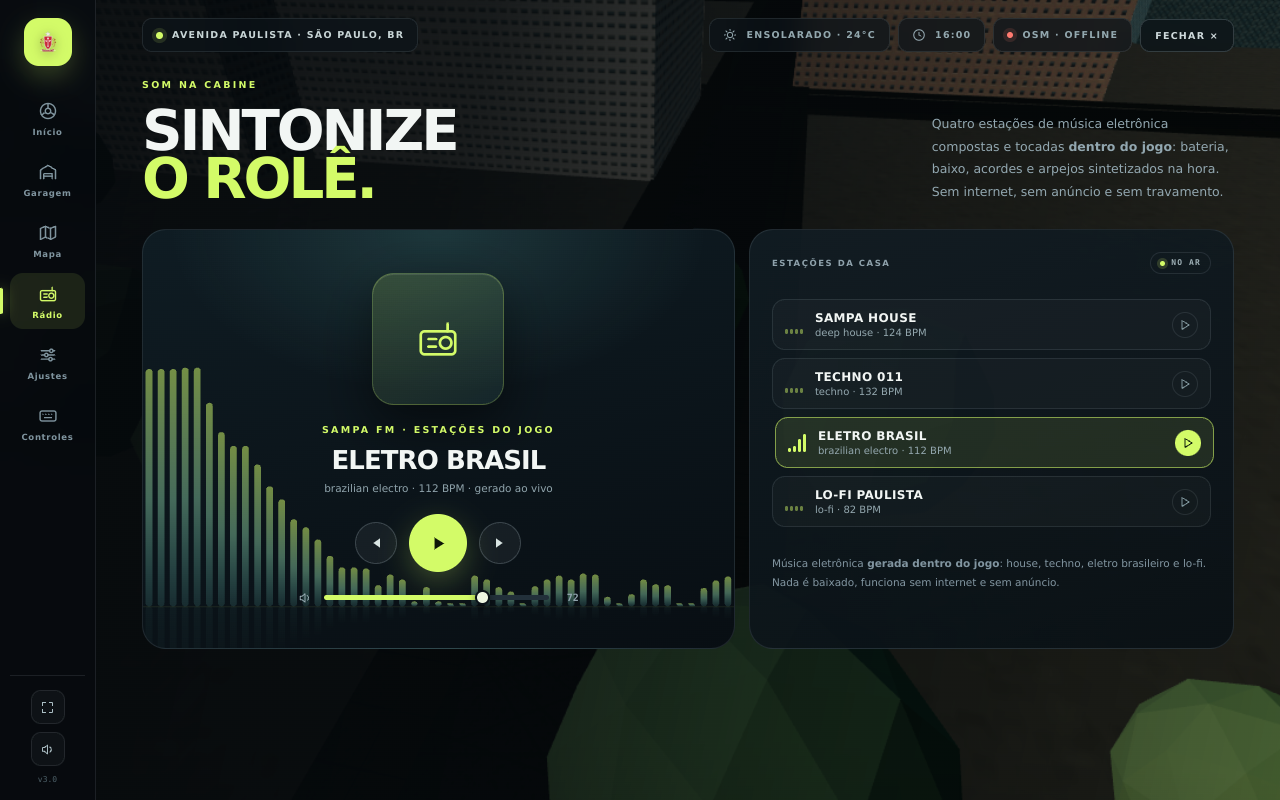
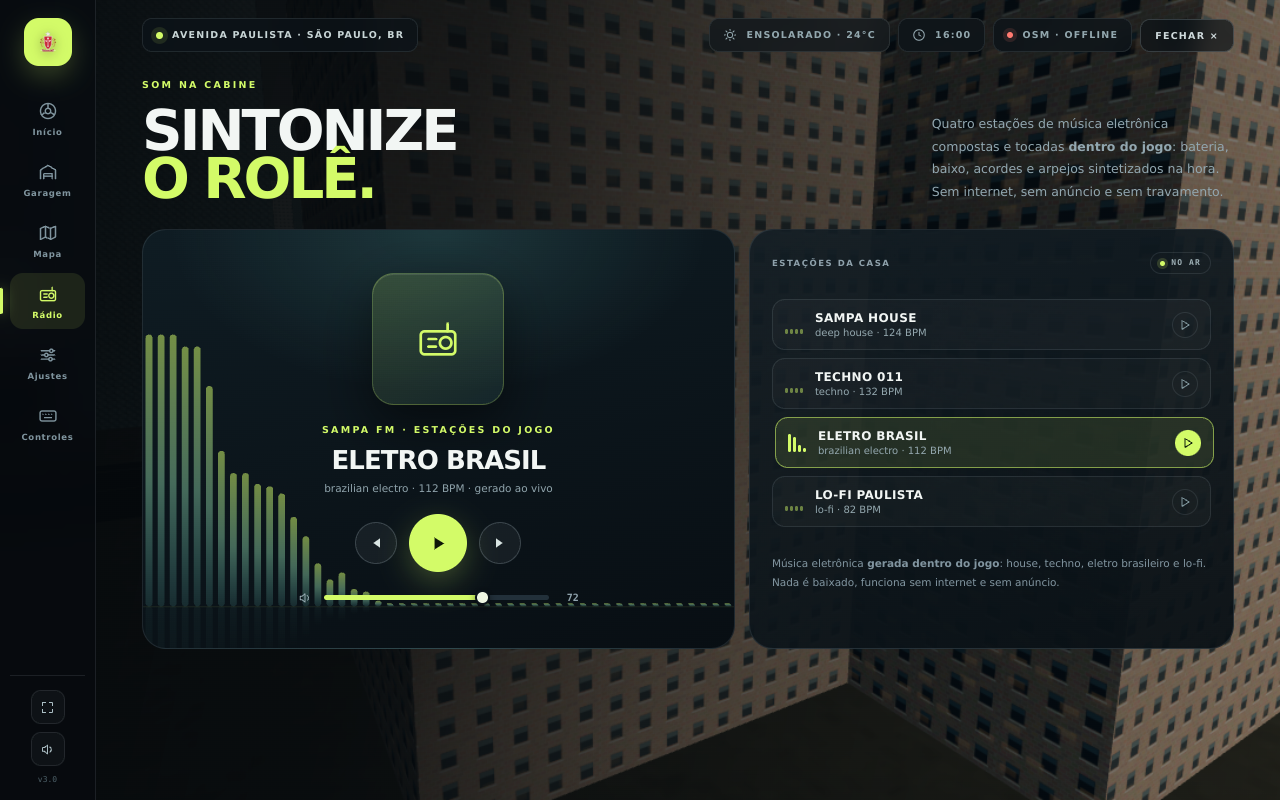
perf: primeiro frame fora do caminho crítico do boot (menu aparece ~3,5 s antes)

diff --git a/index.html b/index.html
@@ -7484,7 +7484,8 @@ async function boot() {
     /* o primeiro frame compila os shaders: libera o menu antes, para o boot não parecer travado */
     $("#boot").classList.add("done");
     setTimeout(() => { const b = $("#boot"); if (b) b.style.display = "none"; }, 700);
-    animateLoop();
+    /* deixa o navegador pintar o menu antes de compilar os shaders do primeiro frame */
+    setTimeout(() => { if (!state.loopStarted) { state.loopStarted = true; animateLoop(); } }, 16);
 
     bootStep(100, "Tudo pronto. Bom rolê!");
     toast("Bem-vindo a São Paulo. Escolha seu carro e caia na rua.", "ok");

diff --git a/src/js/11-ui.js b/src/js/11-ui.js
@@ -634,7 +634,8 @@ async function boot() {
     /* o primeiro frame compila os shaders: libera o menu antes, para o boot não parecer travado */
     $("#boot").classList.add("done");
     setTimeout(() => { const b = $("#boot"); if (b) b.style.display = "none"; }, 700);
-    animateLoop();
+    /* deixa o navegador pintar o menu antes de compilar os shaders do primeiro frame */
+    setTimeout(() => { if (!state.loopStarted) { state.loopStarted = true; animateLoop(); } }, 16);
 
     bootStep(100, "Tudo pronto. Bom rolê!");
     toast("Bem-vindo a São Paulo. Escolha seu carro e caia na rua.", "ok");
